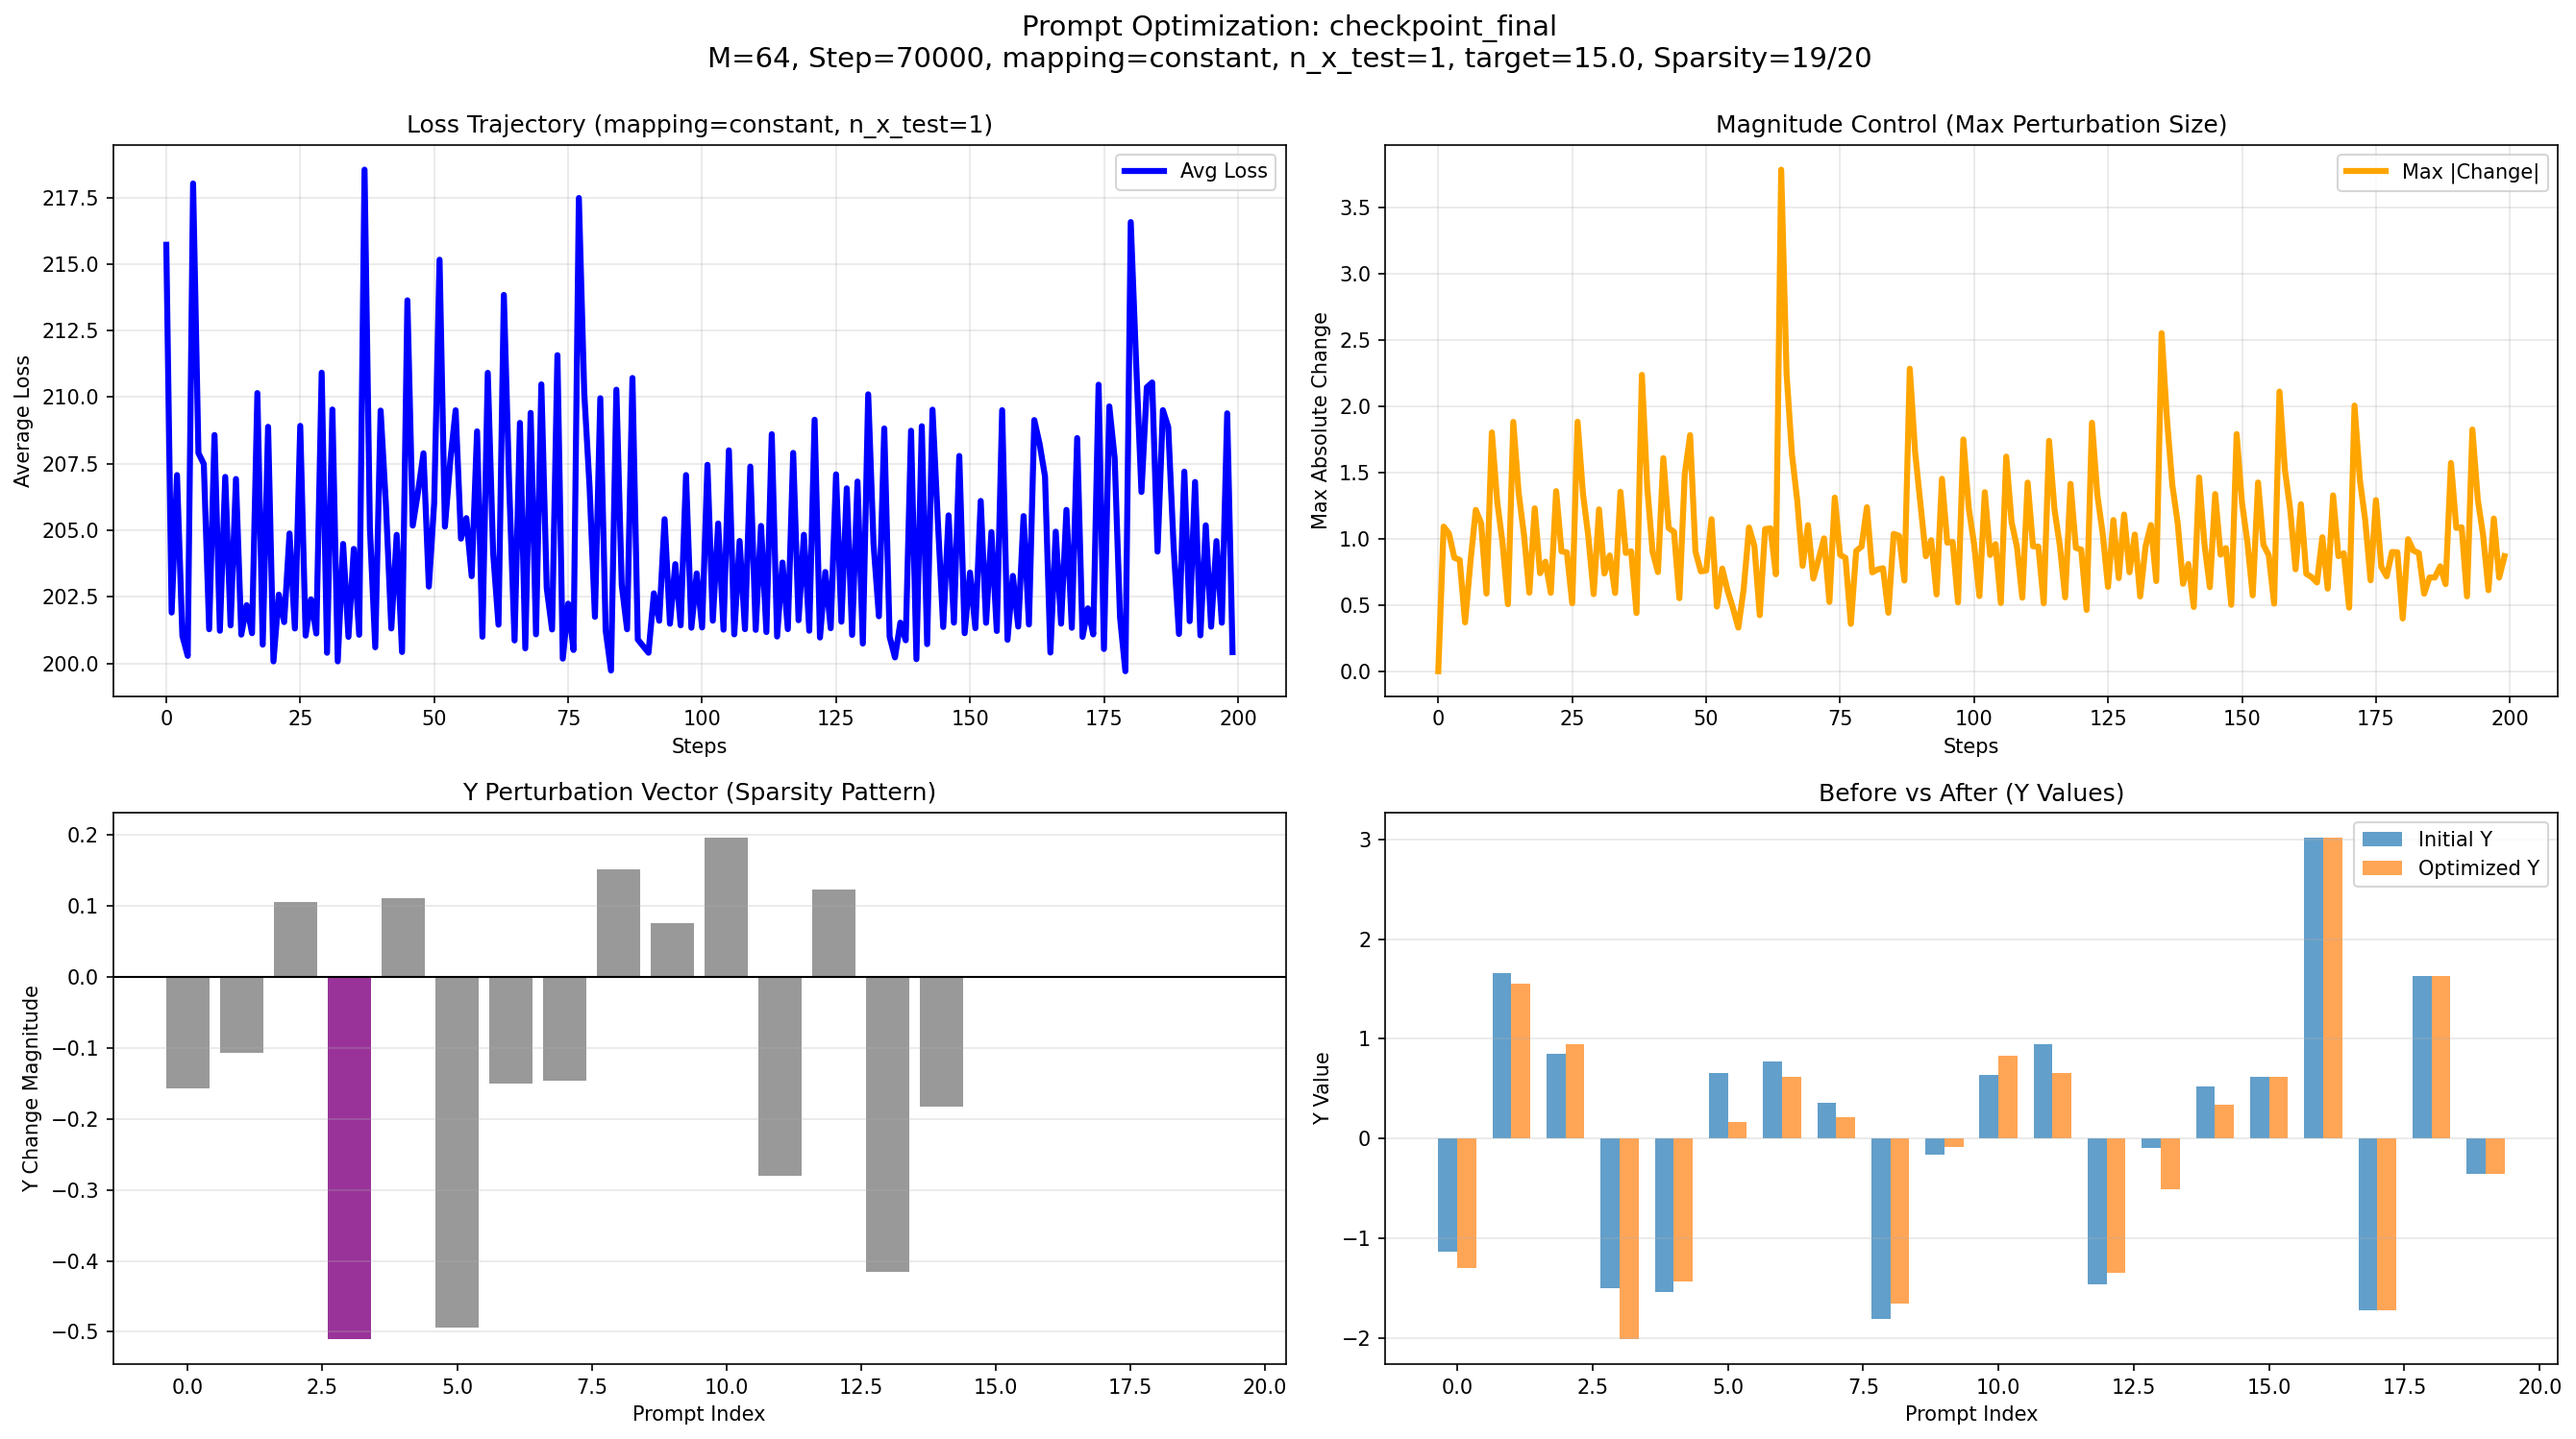
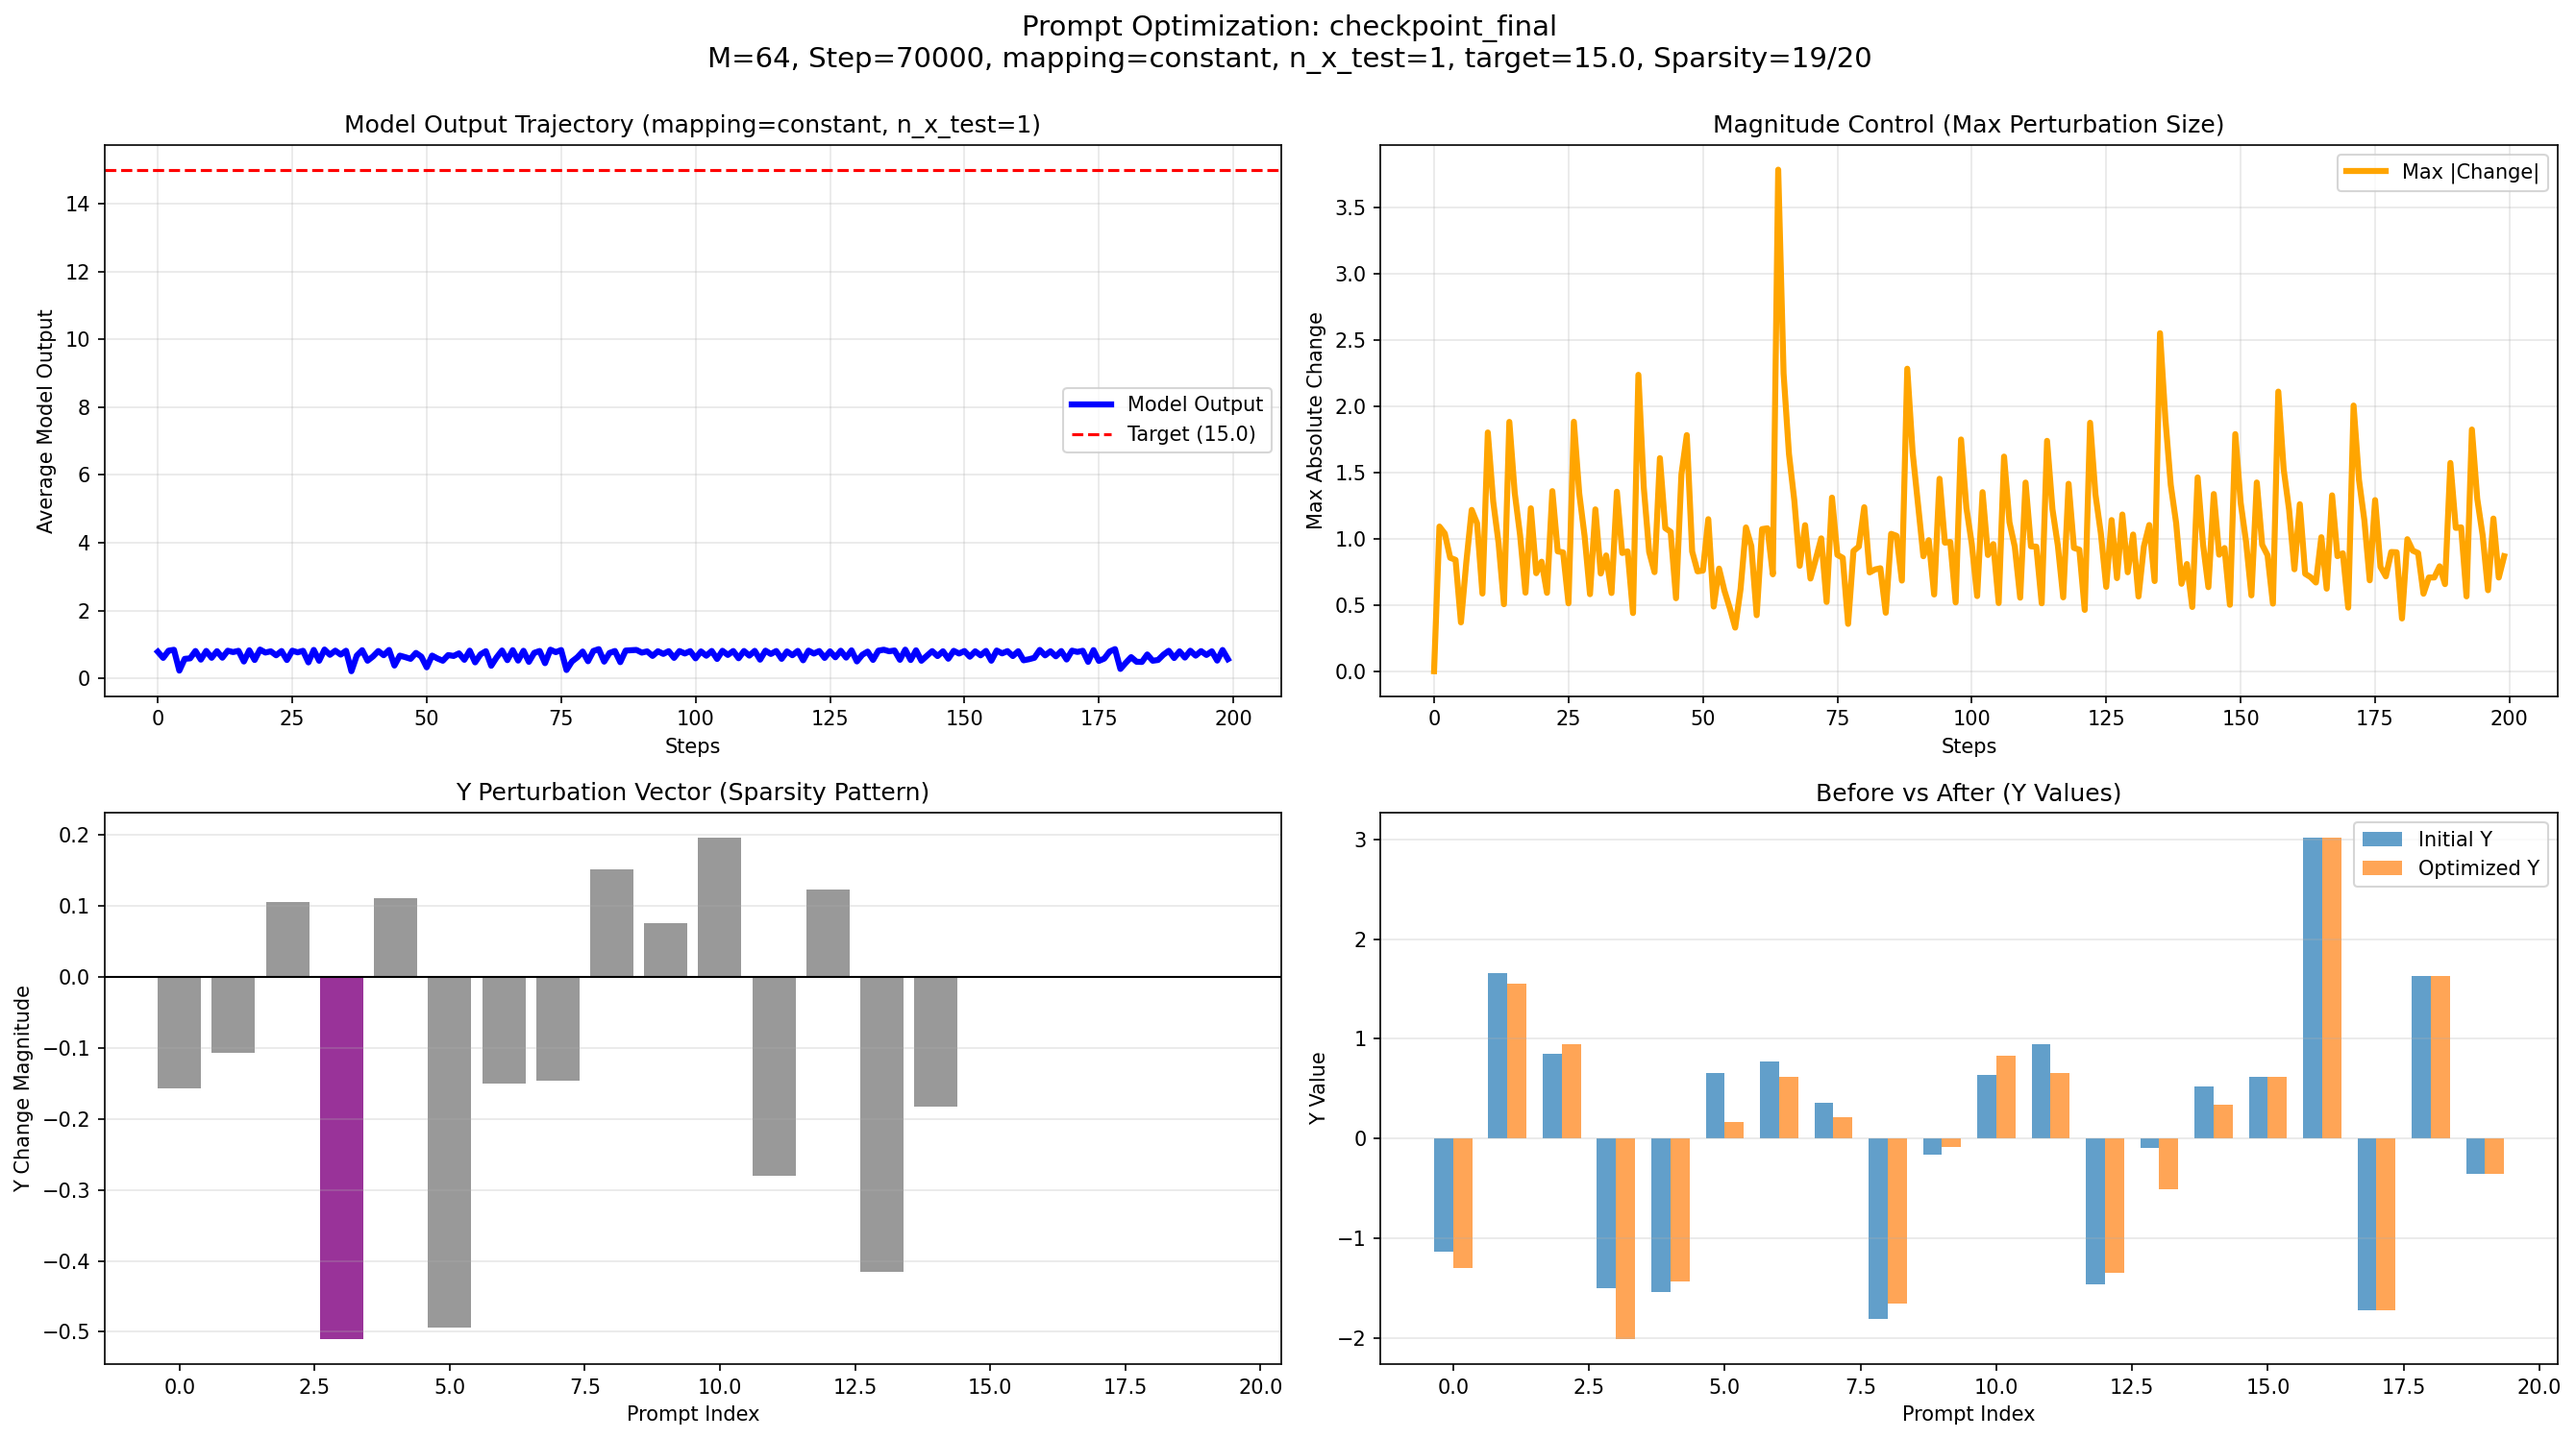
Update plotting to show model output instead of loss in top-left
- Changed top-left plot from loss trajectory to model output trajectory
- Added target line visualization for constant mapping
- Updated plot labels and titles accordingly

diff --git a/optimize_prompt_susceptibility.py b/optimize_prompt_susceptibility.py
@@ -585,12 +585,17 @@ def plot_optimization_results(
     mapping_type = results.get("mapping_type", "constant")
     n_x_test = results.get("n_x_test", 1)
     
-    # Plot 1: Average Loss Trajectory
+    # Plot 1: Model Output (Prediction) Trajectory
     ax = axes[0, 0]
-    ax.plot(loss_traj, linewidth=3, label="Avg Loss", color="blue")
-    ax.set_title(f"Loss Trajectory (mapping={mapping_type}, n_x_test={n_x_test})")
+    ax.plot(prediction_traj, linewidth=3, label="Model Output", color="blue")
+    if mapping_type == "constant" and target is not None:
+        try:
+            ax.axhline(y=float(target), color="r", linestyle="--", label=f"Target ({target})")
+        except (TypeError, ValueError):
+            pass  # Skip if target is not a valid number
+    ax.set_title(f"Model Output Trajectory (mapping={mapping_type}, n_x_test={n_x_test})")
     ax.set_xlabel("Steps")
-    ax.set_ylabel("Average Loss")
+    ax.set_ylabel("Average Model Output")
     ax.legend()
     ax.grid(True, alpha=0.3)
     
